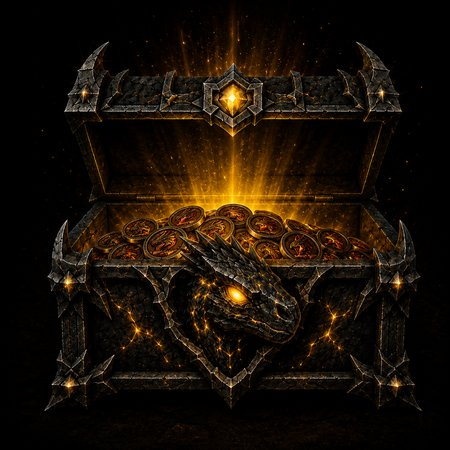
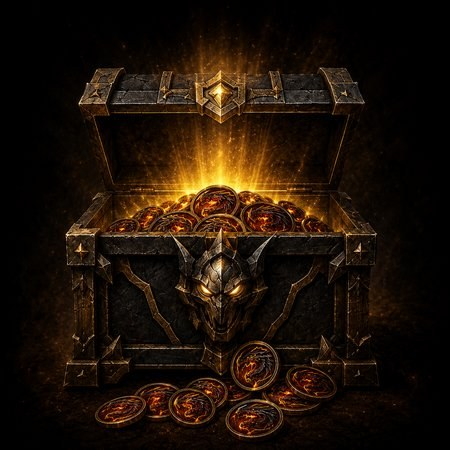
Fix duplicate coin package images: new Standard artwork, cascade old images up through Elite (Elite now has its own unique image instead of reusing Ultimate's)

diff --git a/packages.js b/packages.js
@@ -5,7 +5,7 @@ const PACKAGES = {
   standard: { id: 'standard', label: 'Standard', priceEur: 9.90, baseCoins: 2400, bonusCoins: 250, coins: 2650, image: '/images/packages/standard.jpg' },
   booster: { id: 'booster', label: 'Booster', priceEur: 14.90, baseCoins: 3600, bonusCoins: 400, coins: 4000, image: '/images/packages/booster.jpg' },
   premium: { id: 'premium', label: 'Premium', priceEur: 24.90, baseCoins: 6000, bonusCoins: 1000, coins: 7000, image: '/images/packages/premium.jpg' },
-  elite: { id: 'elite', label: 'Elite', priceEur: 34.90, baseCoins: 8400, bonusCoins: 1600, coins: 10000, image: '/images/packages/ultimate.jpg' },
+  elite: { id: 'elite', label: 'Elite', priceEur: 34.90, baseCoins: 8400, bonusCoins: 1600, coins: 10000, image: '/images/packages/elite.jpg' },
   ultimate: { id: 'ultimate', label: 'Ultimate', priceEur: 44.90, baseCoins: 11000, bonusCoins: 2500, coins: 13500, image: '/images/packages/ultimate.jpg' },
   mega: { id: 'mega', label: 'Mega', priceEur: 69.90, baseCoins: 17000, bonusCoins: 4000, coins: 21000, image: '/images/packages/mega.jpg' },
 };
